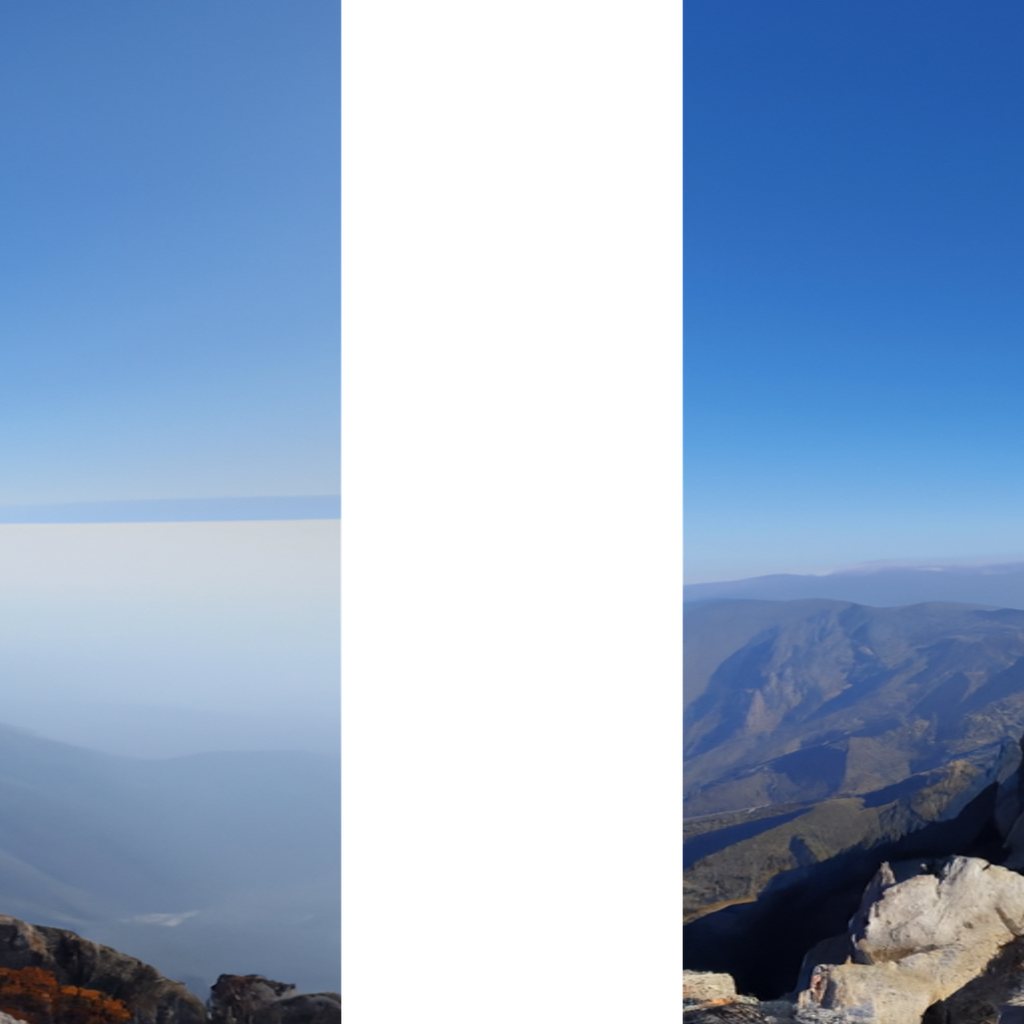
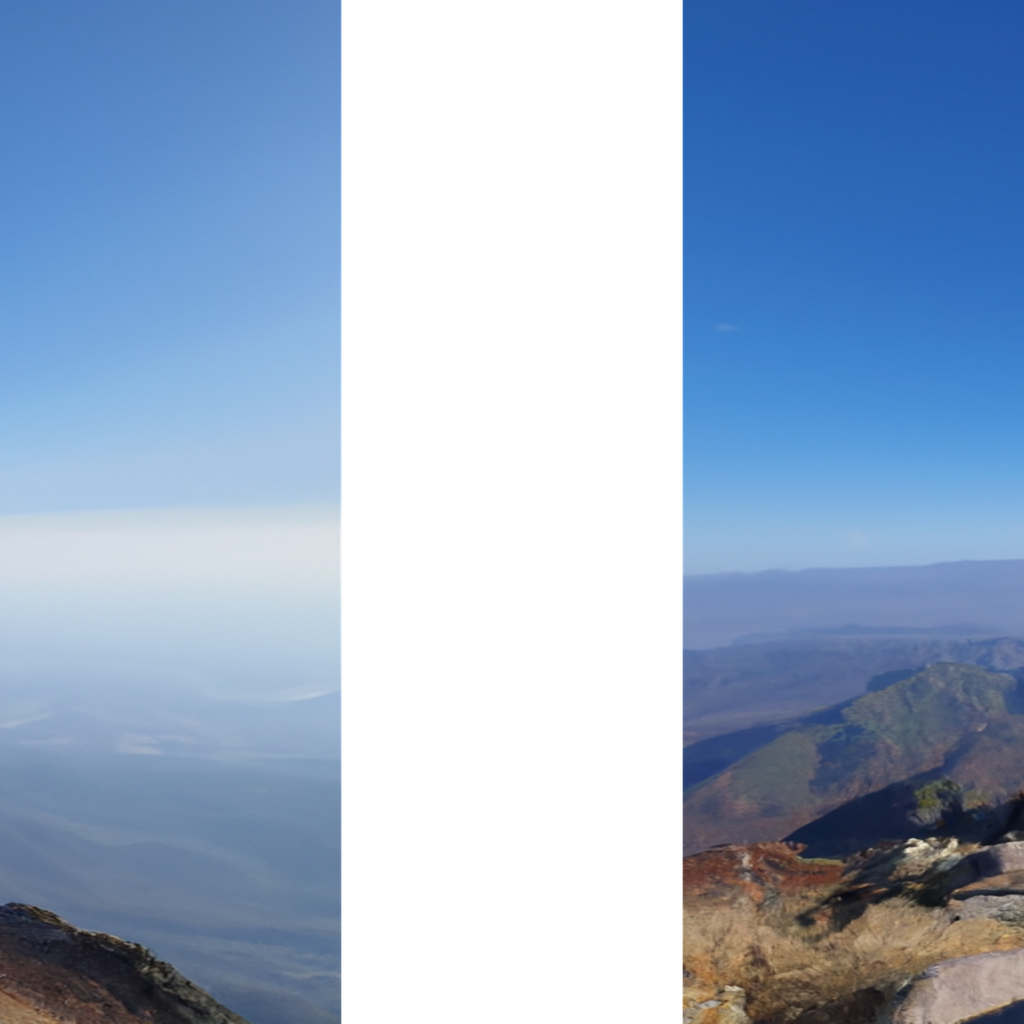
Changes to be committed:찐막 	modified:   fade_in_out.py 	modified:   img_generating_clear_canvas.py 	deleted:    img_lens.py 	modified:   main.py 	modified:   rgba/_mask.png 	modified:   rgba/_src.png 	modified:   src/mask.png 	modified:   src/mask1.png 	modified:   src/sample.png 	modified:   src/sa

diff --git a/templates/viewer.html b/templates/viewer.html
@@ -11,7 +11,7 @@
     <a-scene>
       <a-entity camera wasd-controls="enabled: false" look-controls></a-entity>
       <!-- 하늘 배경 설정 -->
-      <a-sky color="#000000"></a-sky>
+      <a-sky color="{{color}}"></a-sky>
 
       <!-- 이미지 자원 불러오기 -->
       <a-assets>

diff --git a/templates/viewer_video.html b/templates/viewer_video.html
@@ -13,7 +13,7 @@
       <a-entity camera wasd-controls="enabled: false" look-controls></a-entity>
 
       <!-- Sky background setting -->
-      <a-sky color="#000000"></a-sky>
+      <a-sky color="{{color}}"></a-sky>
 
       <!-- Load video assets -->
       <a-assets>

diff --git a/fade_in_out.py b/fade_in_out.py
@@ -2,65 +2,12 @@ import numpy as np
 from PIL import Image
 from collections import Counter
 
-# def after_process_image(file_path: Image):
-#     new_image = Image.open(f"static/{file_path}_pano.png")  
-#     # 새로운 투명한 캔버스를 생성
-#     width, height = (2150, 1500)  # 캔버스 크기 (수정 필요)
-#     top_color, bottom_color = split_and_find_colors(new_image)  # 이미지에서 상단, 하단 색상을 추출
-#     new_canvas = Image.new("RGBA", (width, height))
-#     top_image = Image.new("RGB", (width, height // 2), top_color)  # 상단 색상으로 채운 이미지 생성
-#     bottom_image = Image.new("RGB", (width, height // 2), bottom_color)  # 하단 색상으로 채운 이미지 생성
-#     # 각각의 이미지를 위쪽과 아래쪽에 붙이기
-#     new_canvas.paste(top_image, (0, 0))  
-#     new_canvas.paste(bottom_image, (0, height // 2)) 
-#     # 캔버스 중앙에 새 이미지를 위치시키기 위한 좌표 계산
-#     new_image_size = new_image.size
-#     position = ((width - new_image_size[0]) // 2, (height - new_image_size[1]) // 2)  # 중앙 좌표 계산
-#     # 새 이미지를 투명한 캔버스 위에 붙이기
-#     new_canvas.paste(new_image, position, new_image.convert("RGBA"))
-    # new_output_path = f"static/{file_path}_fadedfinal.png"  
-    # new_canvas.save(new_output_path)
+def find_color(file_name:str):
+    img = Image.open(f'static/{file_name}_outpainted.png')
+    r,g,b = split_and_find_colors(img)
+    return '#' + hex(r)[2:].zfill(2) + hex(g)[2:].zfill(2) + hex(b)[2:].zfill(2)
 
-# def fade_edges(img:Image, fade_width=10, fade_height=20):
-#     # 이미지 로드
-#     image = img.convert("RGBA")
-    
-#     # 이미지 크기 가져오기
-#     width, height = image.size
-    
-#     # 빈 마스크 만들기
-#     alpha = Image.new('L', (width, height), 255)
-    
-#     # NumPy 배열로 변환
-#     alpha_np = np.array(alpha)
-    
-#     # 왼쪽 페이드 인
-#     for x in range(fade_width):
-#         alpha_np[:, x] = (x / fade_width) * 255
-    
-#     # 오른쪽 페이드 인
-#     for x in range(fade_width):
-#         alpha_np[:, width - x - 1] = (x / fade_width) * 255
-    
-#     # 상부 페이드 인
-#     for y in range(fade_height):
-#         alpha_np[y, :] = np.minimum(alpha_np[y, :], (y / fade_height) * 255)
-    
-#     # 하부 페이드 인 (추가)
-#     for y in range(fade_height):
-#         alpha_np[height - y - 1, :] = np.minimum(alpha_np[height - y - 1, :], (y / fade_height) * 255)
-    
-#     # NumPy 배열을 다시 이미지로 변환
-#     alpha = Image.fromarray(alpha_np)
-    
-#     # 원본 이미지에 알파 채널 추가
-#     image.putalpha(alpha)
-    
-#     return image
-
-
-
-def split_and_find_colors(image, portion=0.2):  
+def split_and_find_colors(image:Image, portion=0.2):  
     # 이미지를 numpy 배열로 변환
     image_array = np.array(image)
     
@@ -68,13 +15,13 @@ def split_and_find_colors(image, portion=0.2):
     cut_height = int(image_array.shape[0] * portion)
     
     # 위쪽과 아래쪽 부분으로 나누기
-    # top_part = image_array[:cut_height, :, :]
-    bottom_part = image_array[-cut_height:, :, :]
+    top_part = image_array[:cut_height, :, :]
+    # bottom_part = image_array[-cut_height:, :, :]
     
     # 각각의 최다 색상 계산
-    # top_color = most_frequent_color(top_part)
-    bottom_color = most_frequent_color(bottom_part)
-    return bottom_color
+    top_color = most_frequent_color(top_part)
+    # bottom_color = most_frequent_color(bottom_part)
+    return top_color
 
 def most_frequent_color(image_array):
     # RGB 값을 tuple로 변환

diff --git a/img_generating_clear_canvas.py b/img_generating_clear_canvas.py
@@ -27,3 +27,55 @@ def canvas_clear() :
     return new_output_path1, new_output_path2, new_output_path3
 
 #양쪽 끝 이미지 crop해서 새로운 마스크 이미지 생성
+def second_canvas(file_name: str):
+    image = Image.open(f"static/{file_name}.png")
+    w, h = image.size
+
+    #crop(x시작, y시작, x끝, y끝)
+    # 왼쪽 600픽셀을 자른 이미지
+    left_cropped = image.crop((0, 0, 600, h))
+    left_cropped.save(f"static/left_cropped_{file_name}.png")
+    
+    # 오른쪽 600픽셀을 자른 이미지  
+    right_cropped = image.crop((w - 600, 0, w, h))
+    right_cropped.save(f"static/right_cropped_{file_name}.png")
+    
+    canvas_size = (1800, h)
+    new_canvas = Image.new("RGBA", canvas_size, (255, 255, 255, 0))
+
+    # 이미지를 왼쪽 정렬하고, 세로는 중앙 정렬
+    position_left =(1200,0) 
+    position_right = (0,0)
+    
+    # 이미지를 빈 캔버스에 붙이기
+    new_canvas.paste(left_cropped, position_left, left_cropped.convert("RGBA"))
+    new_canvas.paste(right_cropped, position_right, right_cropped.convert("RGBA"))
+
+    new_canvas = new_canvas.resize((1024, 1024), Image.LANCZOS)
+
+    # 이미지 저장 경로 설정
+    new_output_path1 = "src/src1.png"
+    new_output_path2 = "src/mask1.png"
+    new_output_path3 = "src/sample1.png"
+    
+    new_canvas.save(new_output_path1)
+    new_canvas.save(new_output_path2)
+    new_canvas.save(new_output_path3)
+
+    return new_output_path1, new_output_path2, new_output_path3
+
+#두개의 아웃페인팅 된 이미지를 이어붙이는 함수
+def paste_imgs(file_name:str):
+    org_img = Image.open(f"static/{file_name}.png")
+    cropped_img = Image.open(f"static/{file_name}_cropped.png")
+    cropped_img = cropped_img.crop((600,0,1200,1800))
+
+    w, h = org_img.size
+    new_canvas = Image.new("RGBA",(w+600,h), (255, 255, 255, 0))
+    new_canvas.paste(org_img,(0,0),org_img.convert("RGBA"))
+    new_canvas.paste(cropped_img,(w,0),cropped_img.convert("RGBA"))
+
+    new_canvas.save(f"static/{file_name}_outpainted.png")
+
+if __name__ == '__main__':  #C언어의 main 함수와 같은 개념의 조건문
+    paste_imgs("975")

diff --git a/main.py b/main.py
@@ -2,7 +2,6 @@ from flask import Flask, render_template, request, session, redirect
 from PIL import Image
 import app
 import img_generating_clear_canvas
-import img_lens
 import img_prompt
 from random import randint
 import illegal_pormpt
@@ -76,10 +75,7 @@ def process_image_upload(file, description, is_remix):
 
     music_url = make_music.generate_music(prompt)
     download_and_save_file(music_url, f'static/{session["file_name"]}.mp3', "음악")
-
     img_generating_clear_canvas.paste_imgs(session['file_name'])
-    img_lens.img_pano(session['file_name'])
-
     return session['file_name']
 
 @flask.route("/")
@@ -88,11 +84,13 @@ def main():
 
 @flask.route("/viewer")
 def viewer():
-    return render_template("viewer.html", file=session['file_name'])
+    file = session['file_name']
+    return render_template("viewer.html", file=file, color=fade_in_out.find_color(file))
 
 @flask.route("/viewer_video")
 def viewer_video():
-    return render_template("viewer_video.html",file=session['file_name'])
+    file = session['file_name']
+    return render_template("viewer_video.html", file=file, color=fade_in_out.find_color(file))
 
 @flask.route("/information")
 def info():
